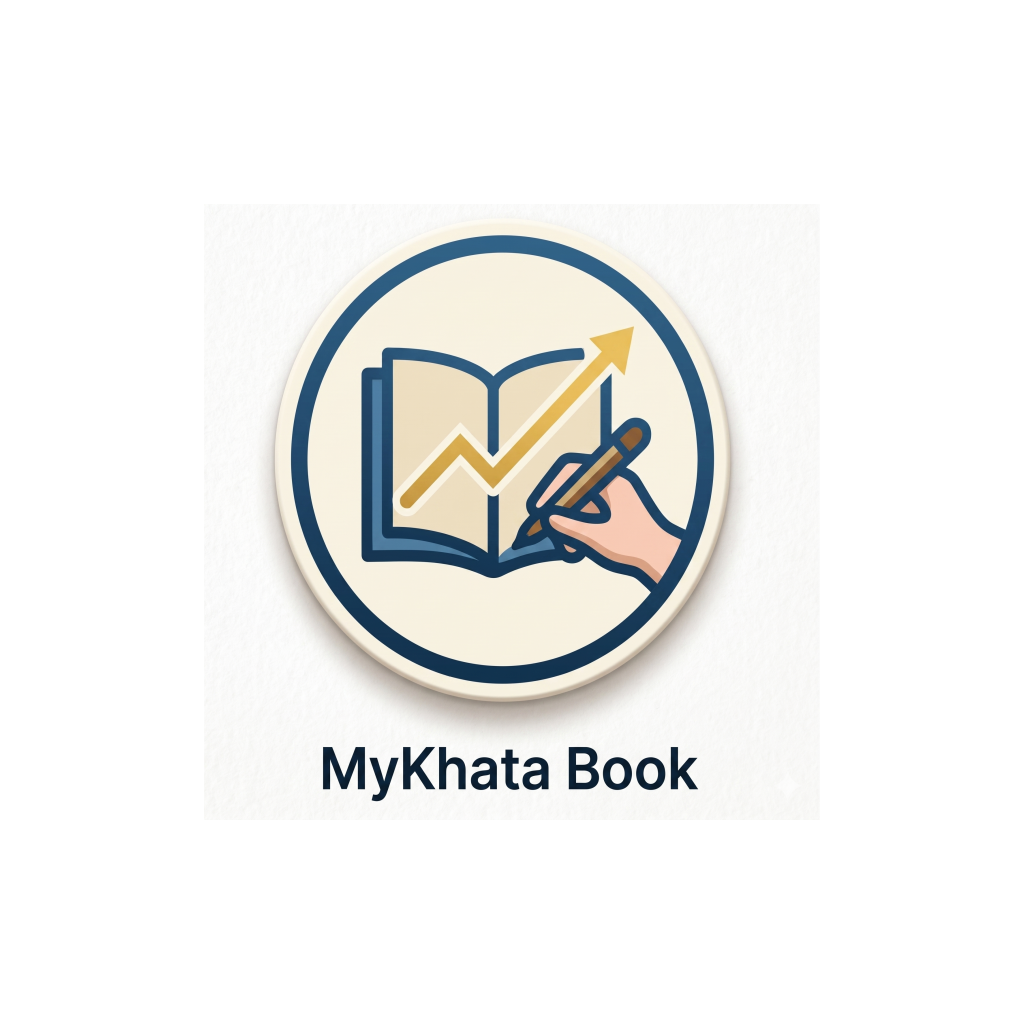
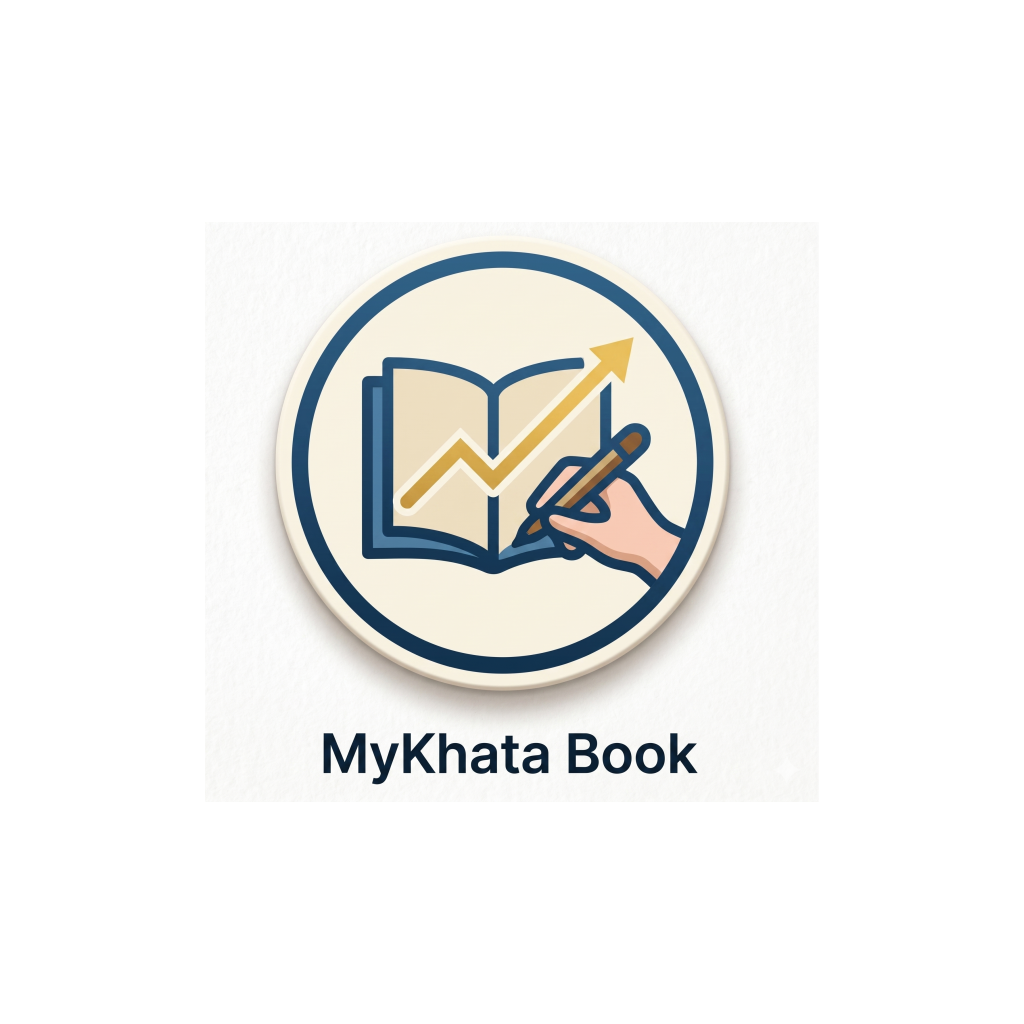
finial git commit before playstore

Changed region(s): [[0.2812, 0.2188, 0.6875, 0.7812]]

diff --git a/scripts/make-icons.js b/scripts/make-icons.js
@@ -1,0 +1,45 @@
+// Generates square icons from the source logo without distortion:
+//  - assets/images/app-icon.png   1024x1024 (app launcher icon, cream bg)
+//  - assets/play-store-icon.png    512x512  (Play Store listing icon, cream bg)
+//  - assets/adaptive-icon.png     1024x1024 (Android adaptive foreground, logo in 60% safe zone, transparent bg)
+const Jimp = require('jimp');
+
+const SRC = './assets/images/icon.png';
+const CREAM = 0xf5f0e8ff;
+
+async function squareCream(src, size) {
+  const fitted = src.clone().scaleToFit(size, size);
+  const canvas = new Jimp(size, size, CREAM);
+  canvas.composite(
+    fitted,
+    Math.floor((size - fitted.bitmap.width) / 2),
+    Math.floor((size - fitted.bitmap.height) / 2)
+  );
+  return canvas;
+}
+
+async function adaptiveForeground(src, size) {
+  const inner = Math.floor(size * 0.6); // keep logo inside the adaptive safe zone
+  const fitted = src.clone().scaleToFit(inner, inner);
+  const canvas = new Jimp(size, size, 0x00000000); // transparent
+  canvas.composite(
+    fitted,
+    Math.floor((size - fitted.bitmap.width) / 2),
+    Math.floor((size - fitted.bitmap.height) / 2)
+  );
+  return canvas;
+}
+
+async function main() {
+  const src = await Jimp.read(SRC);
+  console.log(`source: ${src.bitmap.width}x${src.bitmap.height}`);
+  await (await squareCream(src, 1024)).writeAsync('./assets/images/app-icon.png');
+  await (await squareCream(src, 512)).writeAsync('./assets/play-store-icon.png');
+  await (await adaptiveForeground(src, 1024)).writeAsync('./assets/adaptive-icon.png');
+  console.log('Wrote assets/images/app-icon.png (1024), assets/play-store-icon.png (512), assets/adaptive-icon.png (1024)');
+}
+
+main().catch((e) => {
+  console.error('make-icons failed:', e);
+  process.exit(1);
+});

diff --git a/src/components/insights-donut.tsx b/src/components/insights-donut.tsx
@@ -44,7 +44,6 @@ export function InsightsDonut({
   const cx = SIZE / 2;
   const cy = SIZE / 2;
   const circ = 2 * Math.PI * RADIUS;
-  const GAP_PX = (circ * 3) / 360; // 3° total gap (1.5° each side) between segments
   const sum = data.reduce((s, d) => s + (d.value > 0 ? d.value : 0), 0);
 
   let acc = 0;
@@ -82,14 +81,9 @@ export function InsightsDonut({
         <G rotation={-90} origin={`${cx}, ${cy}`}>
           {segs.length === 0 ? (
             <Circle cx={cx} cy={cy} r={RADIUS} stroke={c.backgroundElement} strokeWidth={STROKE} fill="none" />
-          ) : segs.length === 1 ? (
-            // A single category fills the whole ring — no gap needed.
-            <Circle cx={cx} cy={cy} r={RADIUS} stroke={segs[0].color} strokeWidth={STROKE} fill="none" />
           ) : (
             segs.map((s) => {
-              // Smooth, separated segments: trim a 3° gap (1.5° each side) and round the ends.
               const len = s.frac * circ;
-              const visibleLen = Math.max(len - GAP_PX, 0.001);
               const sw = selected === s.name ? STROKE_SELECTED : STROKE;
               return (
                 <Circle
@@ -100,9 +94,8 @@ export function InsightsDonut({
                   stroke={s.color}
                   strokeWidth={sw}
                   fill="none"
-                  strokeLinecap="round"
-                  strokeDasharray={`${visibleLen} ${circ - visibleLen}`}
-                  strokeDashoffset={-(s.startFrac * circ + GAP_PX / 2)}
+                  strokeDasharray={`${len} ${circ - len}`}
+                  strokeDashoffset={-s.startFrac * circ}
                 />
               );
             })

diff --git a/src/app/(auth)/login.tsx b/src/app/(auth)/login.tsx
@@ -34,7 +34,13 @@ export default function LoginScreen() {
         styles.screen,
         { backgroundColor: c.background, paddingTop: insets.top, paddingBottom: insets.bottom },
       ]}>
-      <Text style={[styles.welcome, { color: headingColor }]}>Welcome to MyKhata Book</Text>
+      <Text
+        style={[styles.welcome, { color: headingColor }]}
+        numberOfLines={1}
+        adjustsFontSizeToFit
+        minimumFontScale={0.7}>
+        Welcome to MyKhata Book
+      </Text>
 
       <Image source={require('@/assets/images/icon.png')} style={styles.logo} resizeMode="contain" />
 
@@ -62,7 +68,7 @@ const styles = StyleSheet.create({
     paddingHorizontal: 24,
   },
   welcome: {
-    fontSize: 26,
+    fontSize: 20,
     fontWeight: '700',
     textAlign: 'center',
     marginBottom: 24,